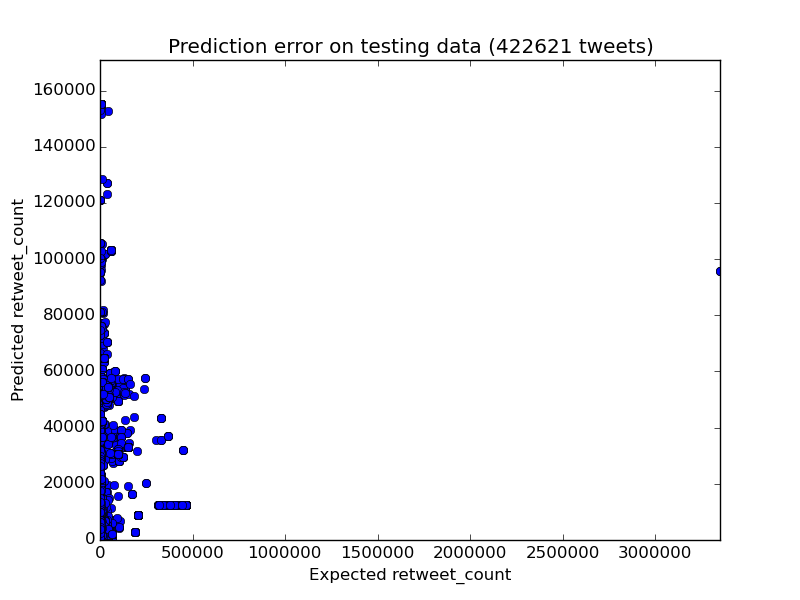
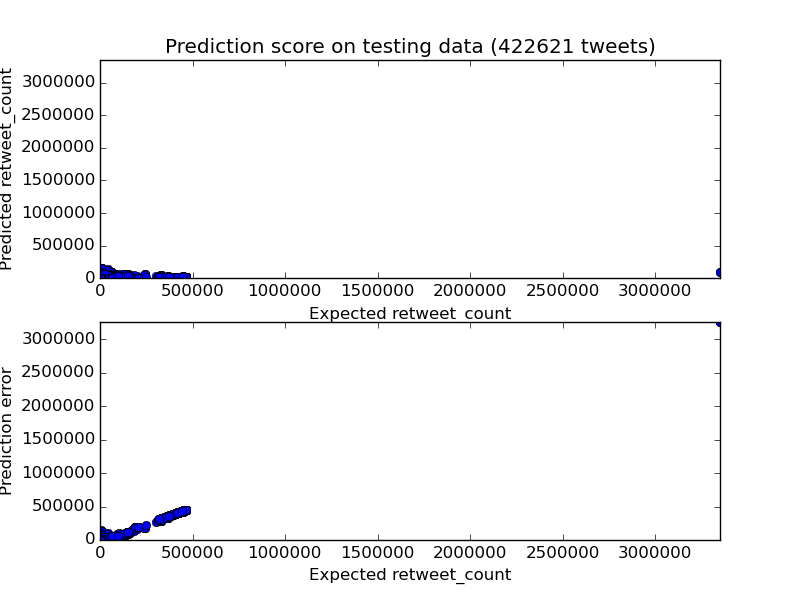
Improved prediction error plots

Changed region(s): [[0.0, 0.12, 0.9062, 0.9], [0.1875, 0.06, 0.8438, 0.09]]

diff --git a/code/regression.py b/code/regression.py
@@ -98,7 +98,7 @@ class RegressionModel:
         # Model coefficients
         print "> Coefficients: ", list(self.clf.coef_)
 
-    def score(self, testing_set, plot=False):
+    def score(self, testing_set, plot=False, save=False):
         """
         Compute benchmarks according to the testing dataset
         """
@@ -108,7 +108,7 @@ class RegressionModel:
         # Retweet count
         Y_test = testing_set[:, -1]
 
-        predictions = self.clf.predict(X_test)
+        predictions = self.predict(X_test)
 
         # Mean squared error
         print "> Residual sum of squares: {:.2f}".format(
@@ -118,12 +118,22 @@ class RegressionModel:
 
         # Plot
         if plot:
-            plt.axis([0, max(Y_test), 0, max(predictions) * 1.1 ])
+            plt.subplot(211)
+            plt.axis([0, max(Y_test), min(predictions), max(Y_test) ])
             plt.xlabel('Expected ' + DataAnalyser.VIRALITY_LABEL[0])
             plt.ylabel('Predicted ' + DataAnalyser.VIRALITY_LABEL[0])
-            plt.title('Prediction error on testing data ({} tweets)'.format(len(X_test)))
+            plt.title('Prediction score on testing data ({} tweets)'.format(len(X_test)))
             plt.plot(Y_test, predictions, 'o')
-            plt.savefig(DataAnalyser.PLOT_DIR + RegressionModel.ERROR_PLOT_FILENAME, format='png')
+
+            plt.subplot(212)
+            error = abs(Y_test - predictions)
+            plt.axis([0, max(Y_test), 0, max(error) ])
+            plt.xlabel('Expected ' + DataAnalyser.VIRALITY_LABEL[0])
+            plt.ylabel('Prediction error')
+            plt.plot(Y_test, error, 'o')
+
+            if save:
+                plt.savefig(DataAnalyser.PLOT_DIR + RegressionModel.ERROR_PLOT_FILENAME, format='png')
             plt.show()
 
 
@@ -167,5 +177,5 @@ if __name__ == "__main__":
     if not model.load():
         model.train(training_set, normalize=True)
         # model.dump()
-    model.score(testing_set, plot=True)
+    model.score(testing_set, plot=True, save=False)
     # print "Prediction samples: ", model.predict([testing_set[0][:-1], testing_set[1][:-1]])
